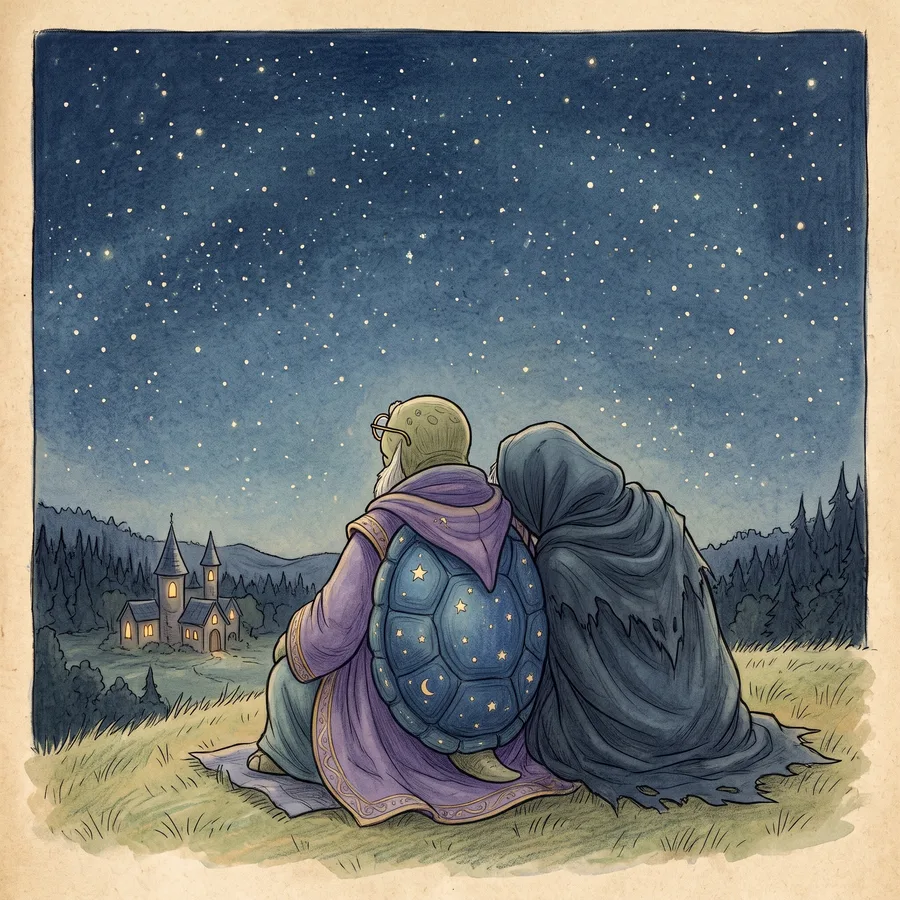
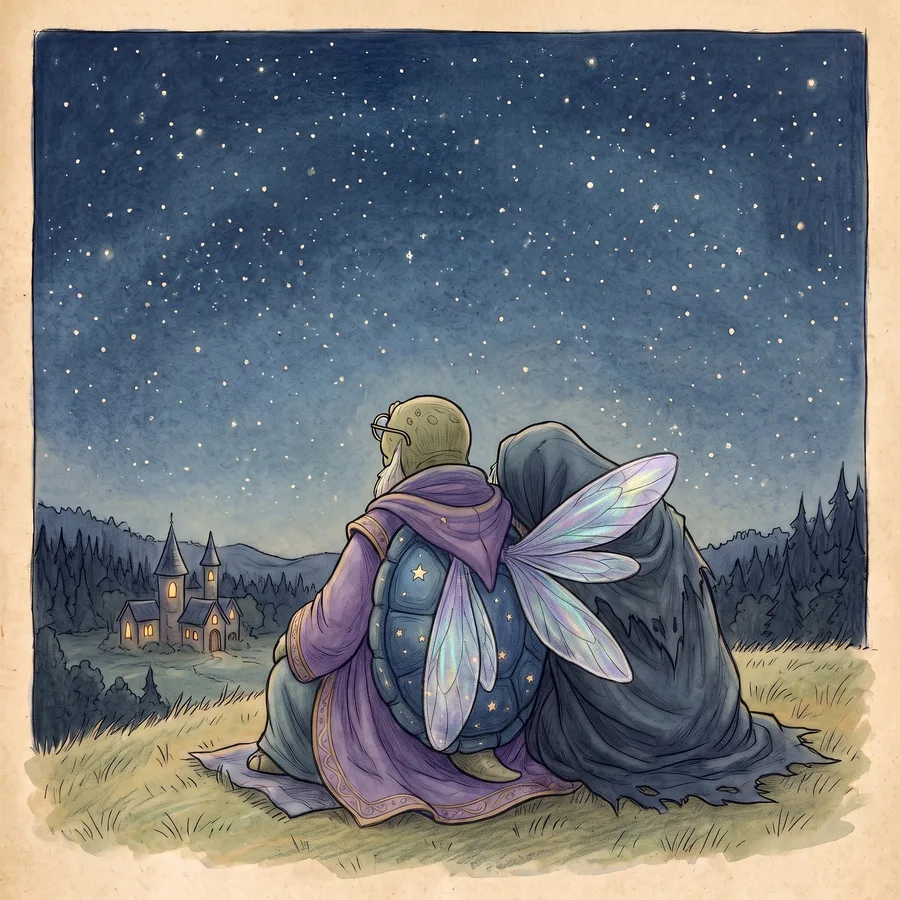
Build 389: Летопись: Tikhon has his wings in the «Холм» illustration of «Последняя ночь» (her «у черепахи нету крыльев»; SYNTX edit, 2 tokens)

diff --git a/js/game.js b/js/game.js
@@ -2,12 +2,12 @@
 import {
   OFFLINE_CAP_SEC, MAX_DESKS, MAX_ITEM_LEVEL, MAX_TEACHER_LEVEL, MAX_TIME_LEVEL,
   CLASSES, SPECIES, NAMES, MISSIONS, WORLDS, WORLD, META,
-} from './data.js?v=388';
-import { EMOJI_RE, emojiImage, preloadEmoji, watchEmoji, emojiHtml } from './emoji.js?v=388';
-import { initMinigame } from './minigame.js?v=388';
-import { initChests } from './chests.js?v=388';
-import { initLore } from './lore.js?v=388';
-import { initAvatar } from './avatar.js?v=388';
+} from './data.js?v=389';
+import { EMOJI_RE, emojiImage, preloadEmoji, watchEmoji, emojiHtml } from './emoji.js?v=389';
+import { initMinigame } from './minigame.js?v=389';
+import { initChests } from './chests.js?v=389';
+import { initLore } from './lore.js?v=389';
+import { initAvatar } from './avatar.js?v=389';
 // mini-game «Зельеварка» (match-3, js/minigame.js): a pill on the main screen, its own overlay; the school keeps living under it
 const MG = initMinigame({ state: () => S, earn: (n) => earn(n), save: () => save(), toast: (t) => toast(t), fmt: (n) => fmt(n), emojiHtml, emojiImage,
   audioOut: () => { if (!sfxOn() || document.hidden) return null; const c = audio(); return c && c.state === 'running' ? { c, out: AOUT } : null; },
@@ -30,7 +30,7 @@ const LORE = initLore({ state: () => S, save: () => save(), emojiHtml, on: () =>
 const SAVE_KEY = WORLD === 1 ? 'magicschool.save.v2' : 'magicschool.save.v2.w' + WORLD;   // every world keeps its own save
 const saveKeyOf = (w) => (w === 1 ? 'magicschool.save.v2' : 'magicschool.save.v2.w' + w);
 const VERSION = '0.9';
-const BUILD = 388;   // keep equal to the ?v= number in index.html
+const BUILD = 389;   // keep equal to the ?v= number in index.html
 const $ = (s, r = document) => r.querySelector(s);
 const rnd = (a) => a[Math.floor(Math.random() * a.length)];
 

diff --git a/index.html b/index.html
@@ -12,7 +12,7 @@
 <link rel="manifest" href="manifest.webmanifest">
 <link rel="apple-touch-icon" href="icons/icon-180.png?v=2">
 <link rel="icon" href="icons/icon-192.png?v=2">
-<link rel="stylesheet" href="style.css?v=388">
+<link rel="stylesheet" href="style.css?v=389">
 <script>/* iOS home-screen app: innerHeight / 100% / 100dvh are short by the status bar, a strip stayed at the bottom (her screenshots, builds 200-203); use the real screen height */
 (function(){function fit(){if(!(navigator.standalone||matchMedia('(display-mode: standalone)').matches))return;var h=Math.max(window.innerHeight,(Math.abs(window.orientation||0)===90?screen.width:screen.height));var r=document.documentElement;r.style.height=h+'px';if(document.body){document.body.style.height=h+'px';document.body.style.bottom='auto';}}fit();addEventListener('DOMContentLoaded',fit);addEventListener('resize',fit);addEventListener('orientationchange',function(){setTimeout(fit,300);});})();</script>
 </head>
@@ -72,6 +72,6 @@ setTimeout(function(){ if (window.__booted) return; var d=document.createElement
   d.querySelector('button').onclick=function(){ location.reload(); }; document.body.appendChild(d); }, 12000);
 if(!CanvasRenderingContext2D.prototype.roundRect){CanvasRenderingContext2D.prototype.roundRect=function(x,y,w,h){this.rect(x,y,w,h);};}
 </script>
-<script type="module" src="js/game.js?v=388"></script>
+<script type="module" src="js/game.js?v=389"></script>
 </body>
 </html>

diff --git a/js/emoji.js b/js/emoji.js
@@ -1,6 +1,6 @@
 // One emoji look on every device: emoji characters are replaced by bundled Twemoji pictures
 // (CC-BY 4.0, https://github.com/jdecked/twemoji), both in the page (DOM) and on the canvas.
-import { EMOJI_FILES } from './emoji-set.js?v=388';
+import { EMOJI_FILES } from './emoji-set.js?v=389';
 
 export const EMOJI_RE = /\p{Extended_Pictographic}(?:|\p{Extended_Pictographic}?|[\u{1F3FB}-\u{1F3FF}])*/gu;
 
